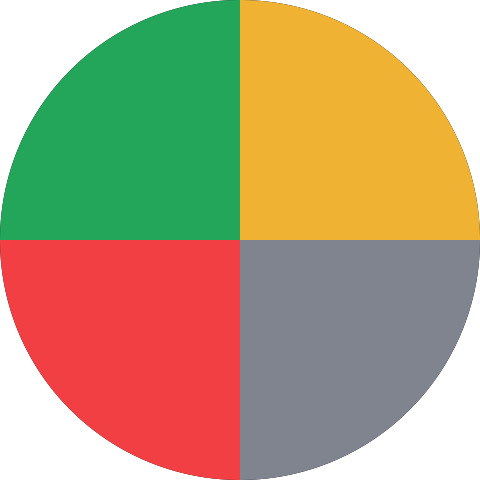
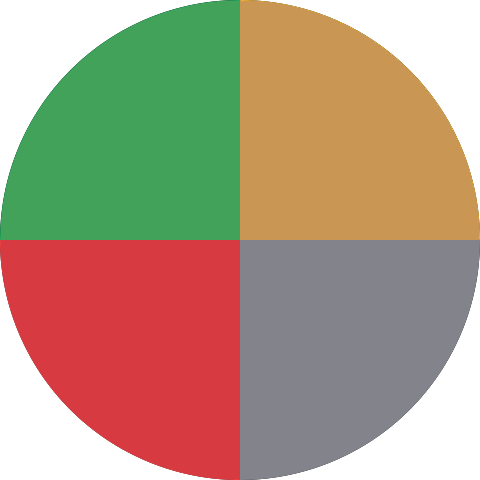
1.ステータスロールのカラーコードを変更しました。 2.ギルドのステータスロールの取得に失敗した場合Botを巻き込んで稼働停止する問題を修正しました。 3.アイコンのカラーをステータスロールのカラーコードに合わせました。

diff --git a/mini_dar.js b/mini_dar.js
@@ -66,10 +66,10 @@ const DAR = {
     testGuild:'1190026977315410031',
 
     roles:{
-        'online':{name:  'オンライン',   color:0x23A55A},
-        'idle'  :{name:  '退席中'    ,   color:0xF0B232},
-        'dnd'   :{name:  '取り込み中',   color:0xF23F43},
-        'offline':{name:  'オフライン',  color:0x80848E},
+        'online':{name:  'オンライン',   color:0x43a25a},
+        'idle'  :{name:  '退席中'    ,   color:0xca9654},
+        'dnd'   :{name:  '取り込み中',   color:0xd83a42},
+        'offline':{name:  'オフライン',  color:0x82838b},
     },
 
     roleToStatus:{
@@ -133,10 +133,10 @@ const DAR = {
     },
 
     roleSet:new Set([
-          'オンライン:2336090',
-          '退席中:15774258',
-          '取り込み中:15875907',
-          'オフライン:8422542',
+          'オンライン',
+          '退席中',
+          '取り込み中',
+          'オフライン',
     ]),
     
 }//end of the DAR
@@ -165,7 +165,7 @@ client.on('presenceUpdate',async (before,after)=>{
 
     const guildRoles = {};//取得したギルドのロールを収納するオブジェクト
     after.guild.roles.cache.forEach((role) => {//キャッシュからギルドのロールを取得する
-        if(DAR.roleSet.has(`${role.name}:${role.color}`)){
+        if(DAR.roleSet.has(`${role.name}`)){
             guildRoles[DAR.roleToStatus[role.name]] = role.id;
         }
     });
@@ -179,7 +179,9 @@ client.on('presenceUpdate',async (before,after)=>{
     }
 
     if(removeRoles.length){await member.roles.remove(removeRoles);}//取り外すロールがあるなら一括で取り外す
-    await member.roles.add(guildRoles[afterStatus]);//現在のロールを追加する
+    if(guildRoles[afterStatus]){//追加するロールがあるなら
+        await member.roles.add(guildRoles[afterStatus]);//現在のロールを追加する
+    }
 });
 
 //どこかしらのギルドで新しいロールが作られた時
